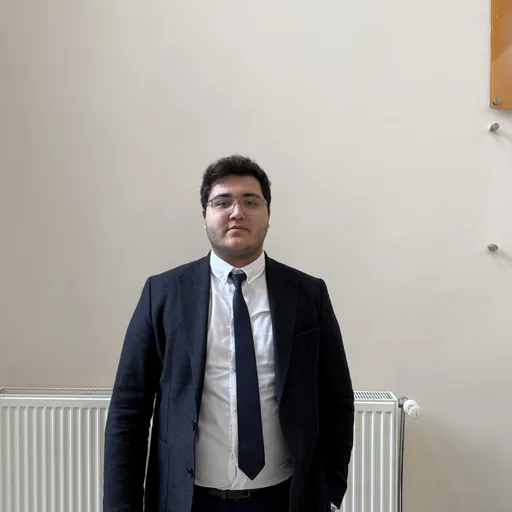
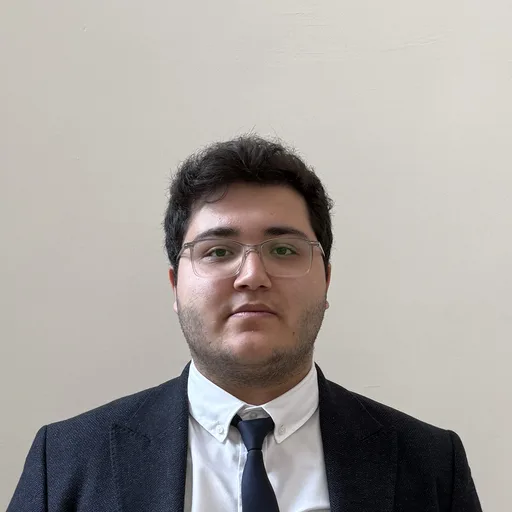
feat(team): add 3 new portraits, recenter 5, fix Emir Aslan name
Add Emir Aslan, Mehmet Ali Şahin, and Münevver Ertürk photos; replace
Kübra Demir; recenter Burak Mert Cömert, Eren Soylu, Yasemin Gürlek,
Sevda Rezaei, and Emirhan Aytemur on their faces. Rename "Emir Arslan"
to "Emir Aslan" and relabel the team-structure section "Ekibimiz" in TR.

diff --git a/scripts/recenter-and-add.js b/scripts/recenter-and-add.js
@@ -1,0 +1,72 @@
+const fs = require('fs');
+const path = require('path');
+const sharp = require('sharp');
+const heic = require('heic-convert');
+
+const SRC_OLD = 'C:/Users/Acar/geget-web/drive-download-20260424T192059Z-3-001';
+const SRC_NEW = 'C:/Users/Acar/geget-web/images';
+const OUT = path.join(__dirname, '..', 'public', 'images', 'team');
+const SIZE = 512;
+const QUALITY = 82;
+
+// Re-cropped (centered on face) entries — extract is applied AFTER .rotate().
+const RECROPS = [
+  { src: SRC_OLD, file: 'Burak Mert Cömert.jpg', slug: 'burak-mert-comert', crop: { left: 259, top: 0,   size: 400 } },
+  { src: SRC_OLD, file: 'Eren Soylu',            slug: 'eren-soylu',         crop: { left: 1099, top: 1528, size: 1800 } },
+  { src: SRC_OLD, file: 'Yasemin Gürlek.png',    slug: 'yasemin-gurlek',     crop: { left: 418, top: 358, size: 478 } },
+  { src: SRC_OLD, file: 'Sevda Rezaei.jpg',      slug: 'sevda-rezaei',       crop: { left: 1099, top: 1385, size: 1800 } },
+  { src: SRC_OLD, file: 'Emirhan Aytemur.jpg',   slug: 'emirhan-aytemur',    crop: { left: 956, top: 1532, size: 1800 } },
+];
+
+// New photos from /images (auto-cover, attention-based).
+const NEW = [
+  { src: SRC_NEW, file: 'Emir Aslan.jpeg',       slug: 'emir-aslan' },
+  { src: SRC_NEW, file: 'Kübra Demir.jpeg',      slug: 'kubra-demir' },
+  { src: SRC_NEW, file: 'Mehmet Alı Şahin.jpeg', slug: 'mehmet-ali-sahin' },
+  { src: SRC_NEW, file: 'Münevver Ertürk.jpeg',  slug: 'munevver-erturk' },
+];
+
+async function readMaybeHeic(file) {
+  let buf = fs.readFileSync(file);
+  const head = buf.slice(0, 32).toString('hex');
+  if (/66747970(68656963|68656978|6d696631|6d736631|68656973|68657663|68657678)/i.test(head)) {
+    buf = await heic({ buffer: buf, format: 'JPEG', quality: 0.95 });
+  }
+  return buf;
+}
+
+async function run() {
+  if (!fs.existsSync(OUT)) fs.mkdirSync(OUT, { recursive: true });
+
+  for (const p of RECROPS) {
+    const buf = await readMaybeHeic(path.join(p.src, p.file));
+    const meta = await sharp(buf).rotate().metadata();
+    const { left, top, size } = p.crop;
+    const safeLeft = Math.max(0, Math.min(left, meta.width - size));
+    const safeTop = Math.max(0, Math.min(top, meta.height - size));
+    const out = await sharp(buf)
+      .rotate()
+      .extract({ left: safeLeft, top: safeTop, width: size, height: size })
+      .resize(SIZE, SIZE, { fit: 'cover' })
+      .webp({ quality: QUALITY })
+      .toBuffer();
+    fs.writeFileSync(path.join(OUT, p.slug + '.webp'), out);
+    console.log('recrop', p.slug.padEnd(22), `(rotated ${meta.width}x${meta.height})`, 'crop', safeLeft, safeTop, size);
+  }
+
+  for (const p of NEW) {
+    const buf = await readMaybeHeic(path.join(p.src, p.file));
+    const out = await sharp(buf)
+      .rotate()
+      .resize(SIZE, SIZE, { fit: 'cover', position: 'attention' })
+      .webp({ quality: QUALITY })
+      .toBuffer();
+    fs.writeFileSync(path.join(OUT, p.slug + '.webp'), out);
+    console.log('new   ', p.slug.padEnd(22), `${(out.length / 1024).toFixed(0)}KB`);
+  }
+}
+
+run().catch((e) => {
+  console.error(e);
+  process.exit(1);
+});

diff --git a/src/lib/team.ts b/src/lib/team.ts
@@ -46,7 +46,7 @@ export const teamStructure: TeamStructure = {
   administrativeCoordinators: [
     { name: 'Eren Soylu', roleKey: 'administrativeCoordinator', image: IMG('eren-soylu') },
     { name: 'Ayşegül Dinçer', roleKey: 'administrativeCoordinator', image: IMG('aysegul-dincer') },
-    { name: 'Emir Arslan', roleKey: 'administrativeCoordinator' },
+    { name: 'Emir Aslan', roleKey: 'administrativeCoordinator', image: IMG('emir-aslan') },
   ],
   departments: [
     {
@@ -89,7 +89,11 @@ export const teamStructure: TeamStructure = {
         {
           slug: 'socialResponsibility',
           nameKey: 'units.socialResponsibility',
-          coordinator: { name: 'Münevver Ertürk', roleKey: 'unitCoordinator' },
+          coordinator: {
+            name: 'Münevver Ertürk',
+            roleKey: 'unitCoordinator',
+            image: IMG('munevver-erturk'),
+          },
           members: [
             { name: 'Ahmet Hakan Koşar', roleKey: 'member', image: IMG('ahmet-hakan-kosar') },
             { name: 'Buse Karadavut', roleKey: 'member', image: IMG('buse-karadavut') },
@@ -132,7 +136,11 @@ export const teamStructure: TeamStructure = {
       slug: 'organization',
       nameKey: 'departments.organization.name',
       descriptionKey: 'departments.organization.description',
-      coordinator: { name: 'Mehmet Ali Şahin', roleKey: 'departmentCoordinator' },
+      coordinator: {
+        name: 'Mehmet Ali Şahin',
+        roleKey: 'departmentCoordinator',
+        image: IMG('mehmet-ali-sahin'),
+      },
       members: [
         { name: 'Esma Sare Usta', roleKey: 'member', image: IMG('esma-sare-usta') },
         { name: 'Emirhan Aytemur', roleKey: 'member', image: IMG('emirhan-aytemur') },
